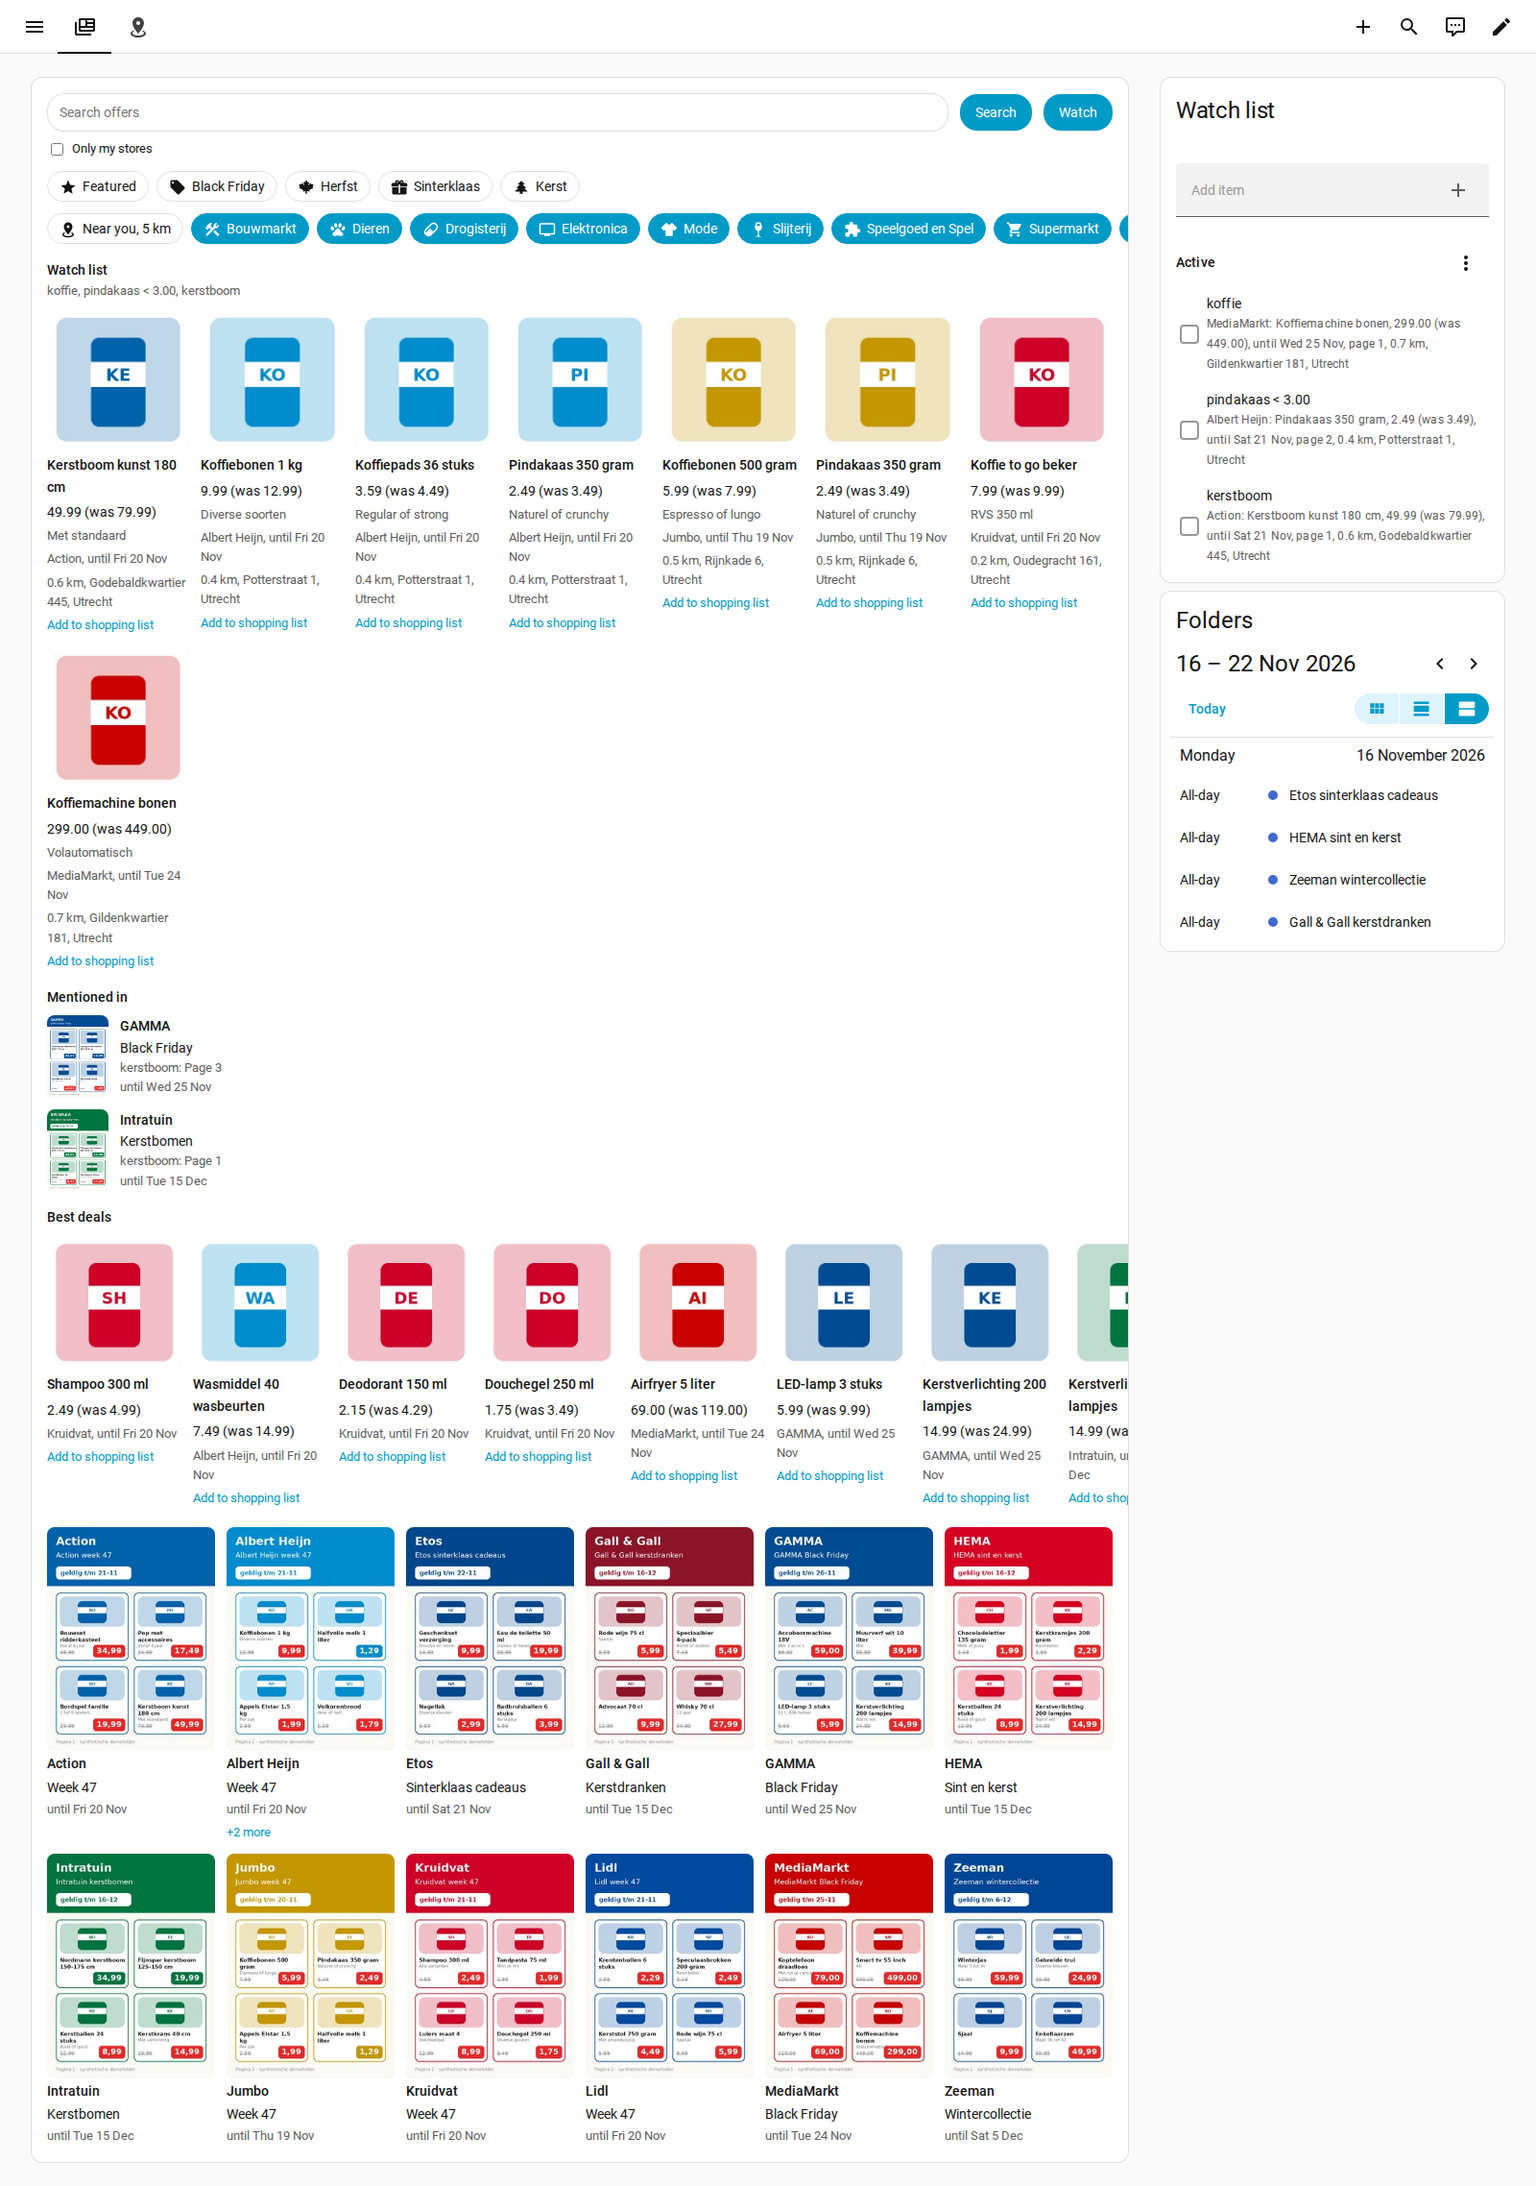
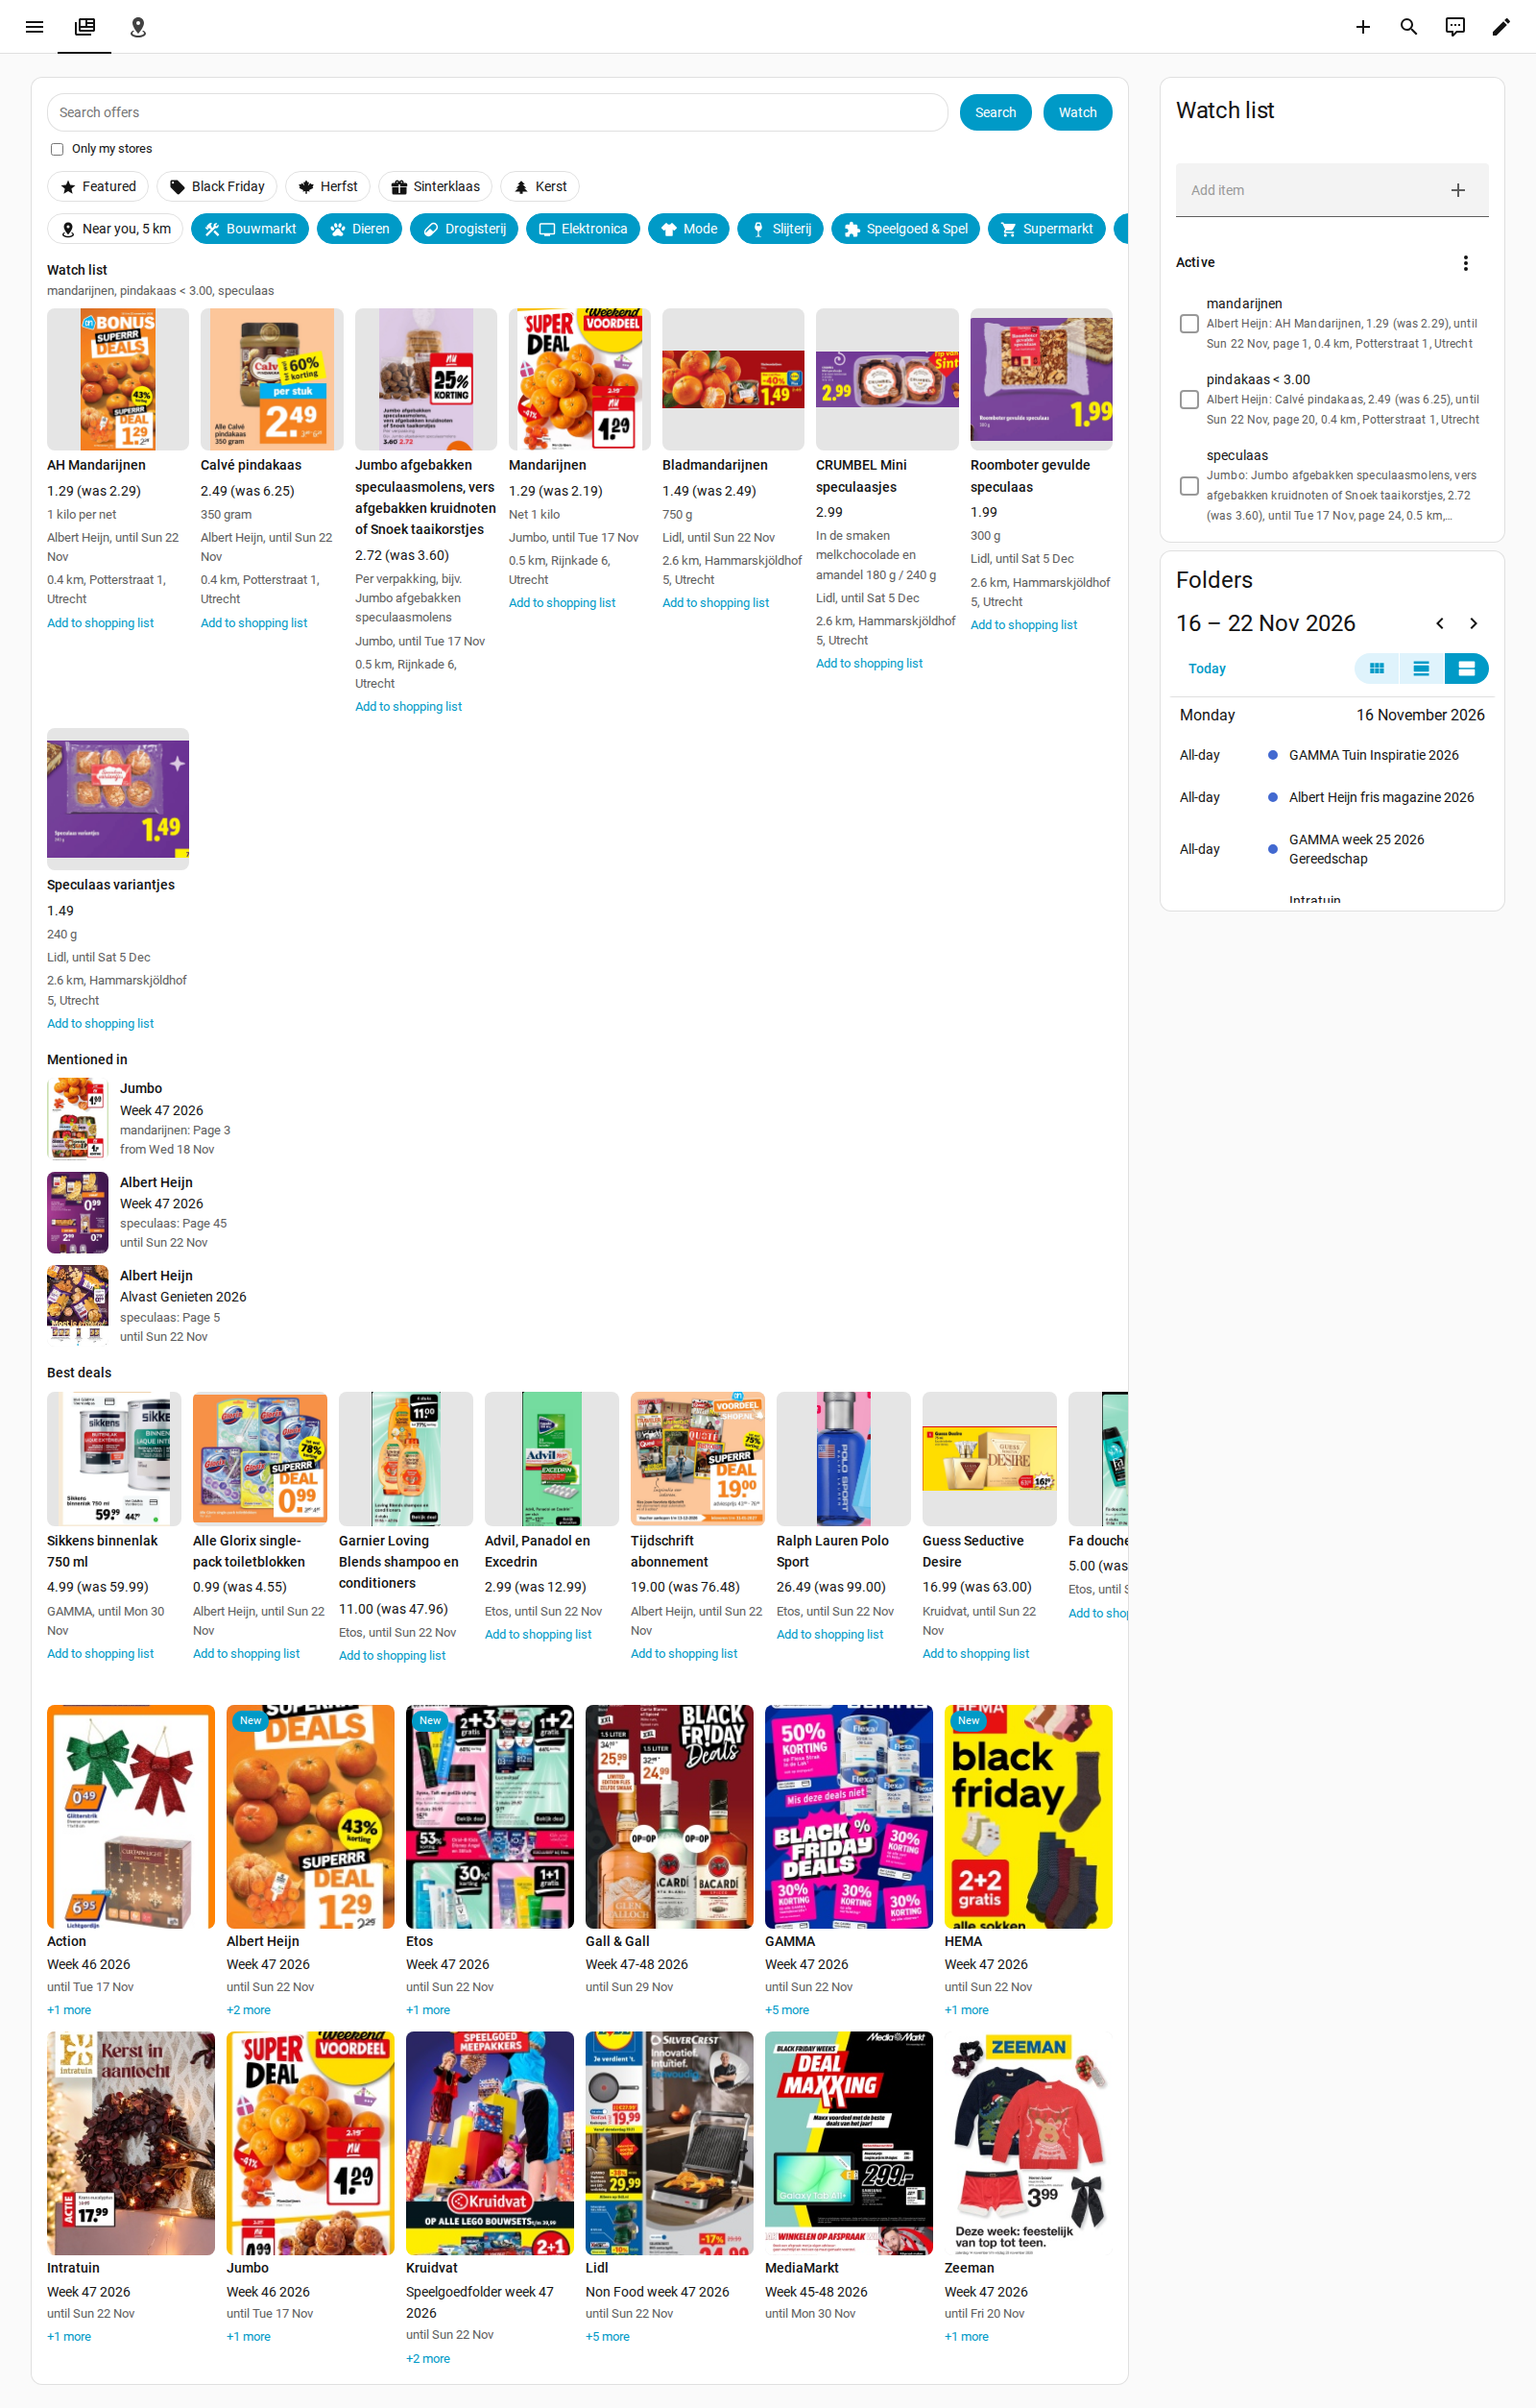
README screenshots with real folders, offers and prices from folders.nl

Changed region(s): [[0.0312, 0.0, 0.7812, 0.9982], [0.75, 0.1248, 0.9688, 0.4367], [0.75, 0.0312, 0.8438, 0.0936]]

diff --git a/README.md b/README.md
@@ -148,7 +148,7 @@ If the card is missing right after installing or updating Folders-HA, reload the
 
 ### Example dashboard
 
-[`examples/dashboard.yaml`](examples/dashboard.yaml) is a dashboard with two views: **Folders** with the Folders card, the watch list and the calendar, and **Map** with the map in a panel view. The screenshots show real store logos and the OpenStreetMap shops of central Utrecht, with made-up folders, offers and prices.
+[`examples/dashboard.yaml`](examples/dashboard.yaml) is a dashboard with two views: **Folders** with the Folders card, the watch list and the calendar, and **Map** with the map in a panel view. The screenshots show real folders, offers, prices and store logos of 12 stores from folders.nl on 16 November 2026 and the OpenStreetMap shops of central Utrecht; the folders, logos and names belong to their stores.
 
 ![The Folders view on a laptop: search, theme and category chips, the watch list with its matches and mentions, best deals and the folders, next to the watch list and the calendar](examples/dashboard-laptop.png)
 
